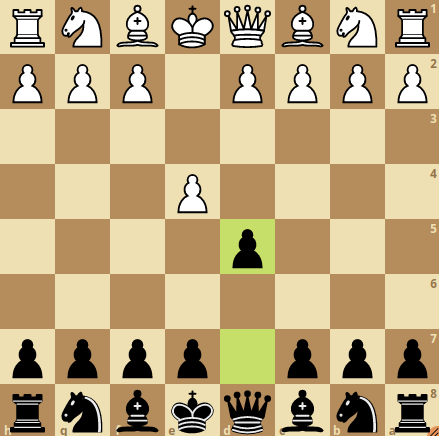
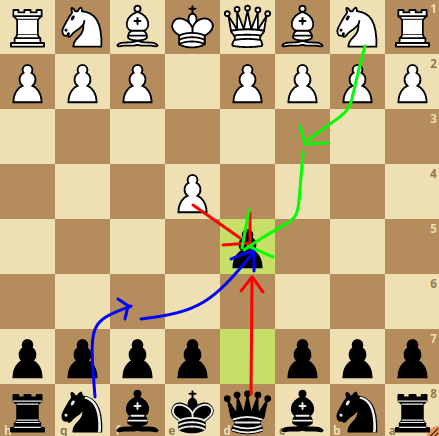
.

diff --git a/README.md b/README.md
@@ -87,6 +87,17 @@ De negras eu gosto de jogar ou na defensiva tentando algum contra ataque, ou na 
 
 <img src = './img/preta_01.png'>
 
+Desta posição podem surgir muitas variações, mas o normal mesmo é que as brancas capturem o peão preto, então poderão sofrer nas mãos das pretas.
+
+
+<img src = './img/preta_02.png'>
+
+Uma possível situação é essa acima, onde a dama branca está no centro do tabuleiro. Daqui podemos chegar até uma outra posição de muito risco para as brancas. Dependendo do que as branca jogarem, as negras poderão conquista um mate muito rápido com a remoção do cavalo em f3.
+
+<img src = './img/preta_03.png'>
+
+> LOADING.... (ESTOU MEIO SEM TEMPO PARA FINALIZAR MINHAS DICAS, EM BREVE TEREMOS MAIS)
+
 
 
 
